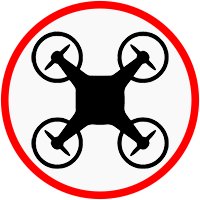
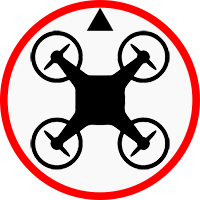
add rotation marker support

diff --git a/src/main/kotlin/de/saring/leafletmap/Marker.kt b/src/main/kotlin/de/saring/leafletmap/Marker.kt
@@ -63,6 +63,7 @@ class Marker private constructor(private var position: LatLong, private var titl
         this.attached = true
         map.execScript("var $name = L.marker([${position.latitude}, ${position.longitude}], "
                 + "{title: '$title', icon: ${marker}, zIndexOffset: $zIndexOffset}).addTo(myMap);")
+        setRotationOrigin(RotationOrigin.Center)
         if (clickable) {
             setClickable()
         }

diff --git a/src/test/kotlin/de/saring/leafletmapdemo/Controller.kt b/src/test/kotlin/de/saring/leafletmapdemo/Controller.kt
@@ -60,7 +60,6 @@ class Controller {
         val marker = Marker(track.positions.first(), "Start", MarkerIcon.DRONE_NORMAL, 1000)
         mapView.addMarker(marker)
         mapView.addMarker(Marker(track.positions.last(), "End", MarkerIcon.RED_MARKER, 2000))
-        marker.setRotationOrigin(Marker.RotationOrigin.Center)
         Thread(Runnable {
             var i = 1.0
             while (true) {
